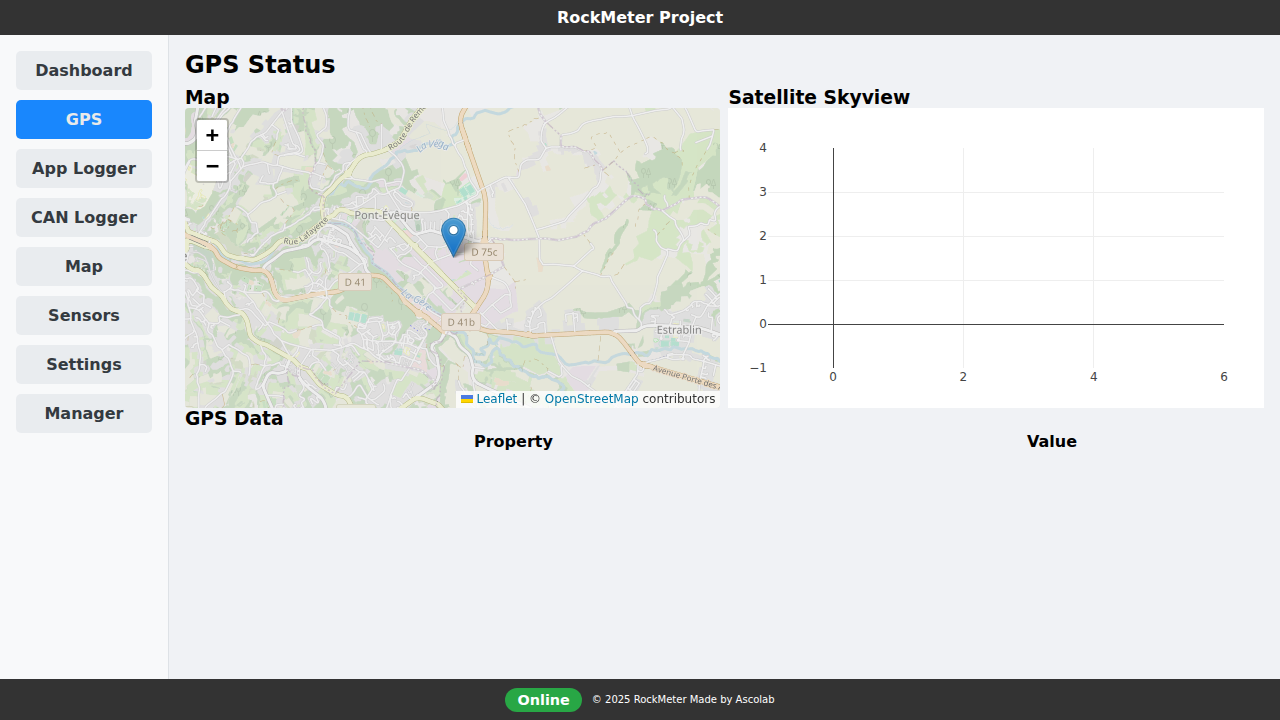
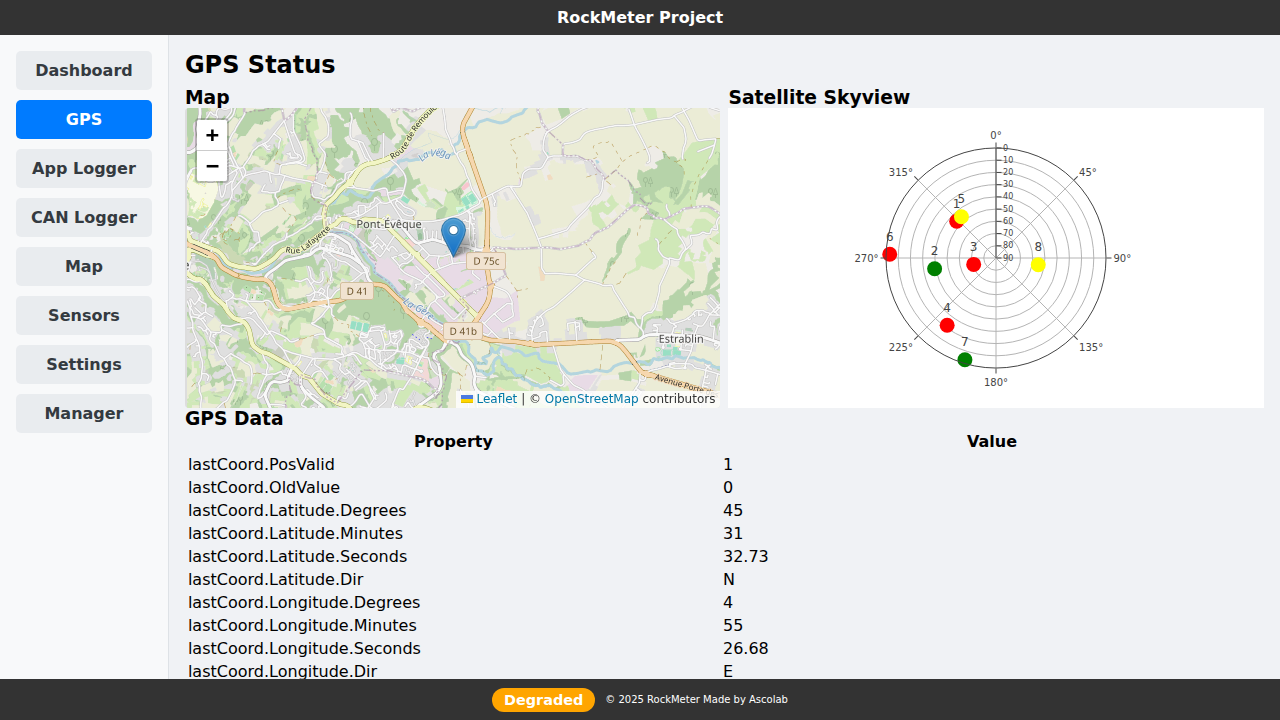
Refactor UI service to use NATS for real-time communication
This commit refactors the UI service to use NATS for real-time data streaming instead of relying on the FastAPI backend to broadcast WebSocket messages. This change improves performance and scalability by offloading the message broadcasting from the FastAPI application to the NATS server.

Key changes:
- Modified the frontend JavaScript to use the `nats.ws.js` library for direct NATS connection.
- Updated `connection_manager.js` to manage the NATS connection and handle status updates.
- Refactored all relevant JavaScript files to subscribe to NATS subjects directly.
- Removed WebSocket broadcasting logic from the backend `UiService`.
- Updated the manager service to provide a global application status ("all_ok" or "degraded").
- Added a global status indicator to the Manager UI page.
- Updated the footer connection status to show "Online", "Offline", or "Degraded" based on NATS connection and application status.
- Added instructions for setting up a NATS server with WebSocket support.

diff --git a/services/ui_service/frontend/static/js/connection_manager.js b/services/ui_service/frontend/static/js/connection_manager.js
@@ -1,15 +1,17 @@
-import { connect, JSONCodec, StringCodec } from "/static/libs/nats-ws/nats.js";
+import { connect, JSONCodec, StringCodec, NatsError } from "/static/libs/nats-ws/nats.js";
 
 const ConnectionManager = {
     _natsConnection: null,
     isOnline: false,
+    appStatus: "unknown",
     reconnectInterval: 1000,
     maxReconnectInterval: 30000,
+    statusPollInterval: null,
     stringCodec: StringCodec(),
     jsonCodec: JSONCodec(),
 
     async getNatsConnection() {
-        if (this._natsConnection) {
+        if (this._natsConnection && !this._natsConnection.isClosed()) {
             return this._natsConnection;
         }
 
@@ -17,12 +19,15 @@ const ConnectionManager = {
             try {
                 const wsUrl = `ws://${window.location.hostname}:4223`;
                 console.log(`Attempting to connect to NATS at ${wsUrl}...`);
-                this._natsConnection = await connect({
+
+                const nc = await connect({
                     servers: [wsUrl],
                     reconnect: true,
                     reconnectTimeWait: this.reconnectInterval,
                     maxReconnectAttempts: -1,
                 });
+
+                this._natsConnection = nc;
                 console.log(`Connected to NATS server ${this._natsConnection.getServer()}`);
                 this.isOnline = true;
                 this.updateGlobalStatus();
@@ -35,17 +40,21 @@ const ConnectionManager = {
                     }
                 })().then();
 
-                this._natsConnection.closed().then(() => {
-                    console.log("NATS connection closed");
+                this._natsConnection.closed().then((err) => {
+                    console.log(`NATS connection closed: ${err}`);
                     this.isOnline = false;
+                    this.appStatus = "offline";
                     this.updateGlobalStatus();
                     this._natsConnection = null;
                     setTimeout(connectToNats, this.reconnectInterval);
                 });
 
+                this.startStatusPolling();
+
             } catch (error) {
                 console.error("Failed to connect to NATS:", error);
                 this.isOnline = false;
+                this.appStatus = "offline";
                 this.updateGlobalStatus();
                 this._natsConnection = null;
                 setTimeout(connectToNats, this.reconnectInterval);
@@ -54,6 +63,32 @@ const ConnectionManager = {
 
         await connectToNats();
         return this._natsConnection;
+    },
+
+    startStatusPolling() {
+        if (this.statusPollInterval) {
+            clearInterval(this.statusPollInterval);
+        }
+        this.statusPollInterval = setInterval(async () => {
+            if (!this._natsConnection || this._natsConnection.isClosed()) {
+                this.appStatus = "offline";
+                this.updateGlobalStatus();
+                return;
+            }
+            try {
+                const res = await this._natsConnection.request("manager.status", this.stringCodec.encode(JSON.stringify({command: "get_status"})));
+                const status = this.jsonCodec.decode(res.data);
+                this.appStatus = status.global_status;
+            } catch (err) {
+                if (err.code === "TIMEOUT") { // NatsError.REQ_TIMEOUT is not available in the browser
+                    this.appStatus = "degraded";
+                } else {
+                    console.error("Error getting manager status:", err);
+                    this.appStatus = "degraded";
+                }
+            }
+            this.updateGlobalStatus();
+        }, 2000);
     },
 
     async subscribe(subject, callback) {
@@ -90,13 +125,18 @@ const ConnectionManager = {
     },
 
     updateGlobalStatus: function() {
-        const event = new CustomEvent('connectionStatusChange', { detail: { isOnline: this.isOnline } });
-        document.dispatchEvent(event);
-        const statusDiv = document.getElementById('connection-status');
-        if (statusDiv) {
-            statusDiv.textContent = this.isOnline ? 'Online' : 'Offline';
-            statusDiv.className = this.isOnline ? 'status-online' : 'status-offline';
+        let status = "offline";
+        if (this.isOnline) {
+            if (this.appStatus === "all_ok") {
+                status = "online";
+            } else {
+                status = "degraded";
+            }
         }
+
+        const event = new CustomEvent('connectionStatusChange', { detail: { status: status } });
+        document.dispatchEvent(event);
+        console.log(`Global connection status changed to: ${status}`);
     }
 };
 

diff --git a/services/ui_service/frontend/static/js/manager.js b/services/ui_service/frontend/static/js/manager.js
@@ -26,8 +26,9 @@ async function initManagerPage() {
 
     // --- NATS Logic ---
     ConnectionManager.subscribe('manager.status', (m) => {
-        const services = ConnectionManager.jsonCodec.decode(m.data);
-        updateStatusGrid(services);
+        const data = ConnectionManager.jsonCodec.decode(m.data);
+        updateStatusGrid(data.services);
+        updateGlobalStatusIndicator(data.global_status);
     }).then(sub => {
         managerSub = sub;
         // Request initial status after subscription is established
@@ -104,6 +105,19 @@ function updateStatusGrid(services) {
     });
 }
 
+function updateGlobalStatusIndicator(globalStatus) {
+    const indicator = document.getElementById('global-status-indicator');
+    if (!indicator) return;
+
+    if (globalStatus === 'all_ok') {
+        indicator.textContent = 'All services OK';
+        indicator.className = 'status-badge status-running';
+    } else {
+        indicator.textContent = 'Degraded';
+        indicator.className = 'status-badge status-degraded';
+    }
+}
+
 function closeStopAllModal() {
     document.getElementById('stop-all-modal').style.display = 'none';
     document.body.classList.remove('modal-open');
@@ -151,16 +165,16 @@ function cleanupManagerPage() {
     if (logInterval) clearInterval(logInterval);
     // Remove all listeners to prevent memory leaks
     const restartAllBtn = document.getElementById('restart-all-btn');
-    if (restartAllBtn) restartAllBtn.removeEventListener('click', onRestartAll);
+    if(restartAllBtn) restartAllBtn.removeEventListener('click', onRestartAll);
 
     const stopAllBtn = document.getElementById('stop-all-btn');
-    if (stopAllBtn) stopAllBtn.removeEventListener('click', onStopAll);
+    if(stopAllBtn) stopAllBtn.removeEventListener('click', onStopAll);
 
     const statusGrid = document.getElementById('status-grid');
-    if (statusGrid) statusGrid.removeEventListener('click', onStatusGridClick);
+    if(statusGrid) statusGrid.removeEventListener('click', onStatusGridClick);
 
     const closeModalBtn = document.getElementById('close-modal-btn');
-    if (closeModalBtn) closeModalBtn.removeEventListener('click', closeStopAllModal);
+    if(closeModalBtn) closeModalBtn.removeEventListener('click', closeStopAllModal);
 
     const cancelStopAllBtn = document.getElementById('cancel-stop-all-btn');
     if(cancelStopAllBtn) cancelStopAllBtn.removeEventListener('click', closeStopAllModal);

diff --git a/services/ui_service/frontend/static/js/app.js b/services/ui_service/frontend/static/js/app.js
@@ -113,13 +113,15 @@ document.addEventListener('DOMContentLoaded', () => {
 // Handle connection status changes
 document.addEventListener('connectionStatusChange', event => {
     const statusDiv = document.getElementById('connection-status');
-    if (event.detail.isOnline) {
+    const status = event.detail.status;
+    if (status === 'online') {
         statusDiv.textContent = 'Online';
-        statusDiv.classList.remove('status-offline');
-        statusDiv.classList.add('status-online');
+        statusDiv.className = 'status-online';
+    } else if (status === 'degraded') {
+        statusDiv.textContent = 'Degraded';
+        statusDiv.className = 'status-degraded';
     } else {
         statusDiv.textContent = 'Offline';
-        statusDiv.classList.remove('status-online');
-        statusDiv.classList.add('status-offline');
+        statusDiv.className = 'status-offline';
     }
 });

diff --git a/services/ui_service/frontend/templates/index.html b/services/ui_service/frontend/templates/index.html
@@ -197,6 +197,7 @@
             <div id="page-manager" class="page-content" style="display: none;">
                 <div class="manager-header">
                     <h1>Service Manager</h1>
+                    <div id="global-status-indicator"></div>
                     <div id="global-actions" class="global-actions">
                         <button id="restart-all-btn">Restart All</button>
                         <button id="stop-all-btn" class="danger">Stop All</button>

diff --git a/services/ui_service/frontend/static/css/styles.css b/services/ui_service/frontend/static/css/styles.css
@@ -211,6 +211,11 @@ button:hover {
     color: white;
 }
 
+.status-degraded {
+    background-color: orange;
+    color: white;
+}
+
 /* --- Loader Spinner --- */
 .loader {
   border: 16px solid #f3f3f3;

diff --git a/services/manager/service.py b/services/manager/service.py
@@ -4,6 +4,7 @@ import subprocess
 import sys
 import json
 from typing import Dict, TypedDict, Optional
+from nats.aio.msg import Msg
 
 # Add the project root to the Python path
 sys.path.append(os.path.abspath(os.path.join(os.path.dirname(__file__), '..', '..')))
@@ -89,10 +90,12 @@ class ManagerService(Microservice):
                 "last_command": "start"
             })
             self.logger.info(f"Service '{service_name}' started with PID {process.pid}.")
+            await self.publish_status() # Publish status after starting a service
             return True
         except Exception as e:
             self.logger.error(f"Error starting service '{service_name}': {e}", exc_info=True)
             service_info["status"] = "error"
+            await self.publish_status() # Publish status after a failed start
             return False
 
     async def stop_service(self, service_name: str):
@@ -119,6 +122,7 @@ class ManagerService(Microservice):
                 self.logger.error(f"Error while stopping service {service_name}: {e}")
 
         service_info.update({"status": "stopped", "pid": None, "process": None})
+        await self.publish_status()
 
     async def restart_service(self, service_name: str):
         self.logger.info(f"Restarting service '{service_name}'...")
@@ -155,10 +159,12 @@ class ManagerService(Microservice):
             if service_name == "settings_service":
                 self.logger.info("Waiting for settings_service to initialize...")
                 await asyncio.sleep(2) # Give it time to start and be available
+        await self.publish_status()
 
     async def stop_all_command(self):
         self.logger.info("Executing stop_all command...")
         await self._stop_logic()
+        await self.publish_status()
 
     async def restart_all_command(self):
         self.logger.info("Executing restart_all command...")
@@ -166,13 +172,36 @@ class ManagerService(Microservice):
         await self.start_all_command()
         self.logger.info("Finished restart_all command.")
 
-    async def get_status_command(self):
-        """Publishes the current status of all services."""
-        current_status_payload = []
+    async def get_status_command(self, msg: Msg):
+        """Replies with the current status of all services."""
+        status_payload = self.get_status_payload()
+        if msg.reply:
+            await self.messaging_client.publish(msg.reply, json.dumps(status_payload).encode())
+
+    def get_status_payload(self):
+        """Constructs the status payload dictionary."""
+        services_status_list = []
+        is_all_running = True
         for name, info in self.managed_services.items():
+            # Check if the process is still running
+            process = info.get("process")
+            status = info["status"]
+            if status == 'running' and process and process.poll() is not None:
+                status = 'crashed' # Or 'stopped', depending on desired behavior
+                info['status'] = status
+                info['pid'] = None
+                info['process'] = None
+
+            if status != 'running':
+                is_all_running = False
+
             status_info = {k: v for k, v in info.items() if k != 'process'}
-            current_status_payload.append(status_info)
-        await self.publish_status(current_status_payload)
+            services_status_list.append(status_info)
+
+        return {
+            "global_status": "all_ok" if is_all_running else "degraded",
+            "services": services_status_list
+        }
 
     # --- Core Logic ---
 
@@ -205,20 +234,22 @@ class ManagerService(Microservice):
             await self.stop_service(service_name)
         self.logger.info("All managed services have been signaled to stop.")
 
-    async def publish_status(self, status_payload: list):
+    async def publish_status(self):
         """Publishes the status of all managed services to NATS and stores it."""
-        self.logger.info(f"Publishing status update for {len(status_payload)} services.")
-        await self.messaging_client.publish(
-            "manager.status",
-            json.dumps(status_payload).encode()
-        )
-        self.last_published_status = status_payload
+        status_payload = self.get_status_payload()
+        if self.last_published_status != status_payload:
+            self.logger.info(f"Publishing status update for {len(status_payload['services'])} services.")
+            await self.messaging_client.publish(
+                "manager.status",
+                json.dumps(status_payload).encode()
+            )
+            self.last_published_status = status_payload
 
     async def monitor_services(self):
         """Periodically checks the health of services and handles crashes."""
         while not self._shutdown_event.is_set():
             state_changed = False
-            for name, service_info in self.managed_services.items():
+            for name, service_info in list(self.managed_services.items()):
                 process = service_info.get("process")
                 if service_info["status"] == "running" and process and process.poll() is not None:
                     # The process has terminated, but was it intentional?
@@ -242,15 +273,8 @@ class ManagerService(Microservice):
                         service_info.update({"status": "stopped", "pid": None, "process": None})
                     state_changed = True
 
-            # Construct the current status payload
-            current_status_payload = []
-            for name, info in self.managed_services.items():
-                status_info = {k: v for k, v in info.items() if k != 'process'}
-                current_status_payload.append(status_info)
-
-            # Publish status only if it has changed
-            if state_changed or self.last_published_status != current_status_payload:
-                await self.publish_status(current_status_payload)
+            if state_changed:
+                await self.publish_status()
 
             try:
                 # Wait for 2 seconds or until shutdown is triggered
